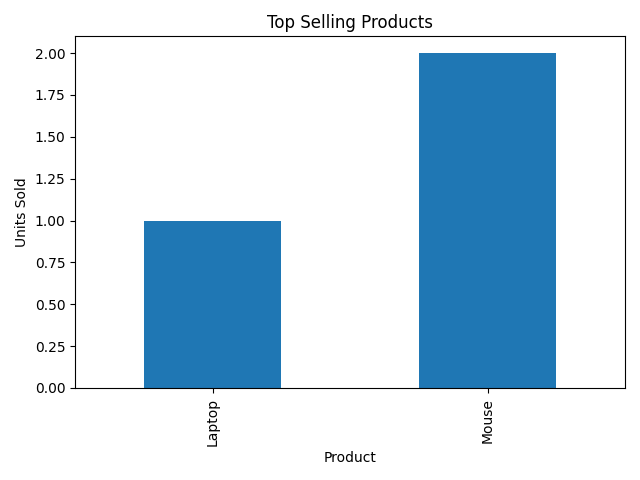
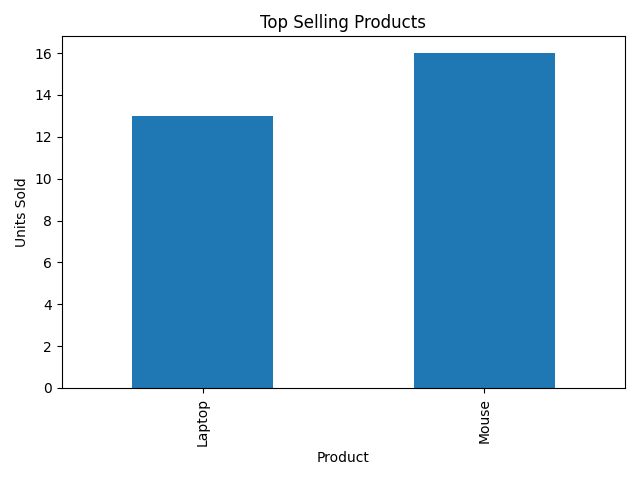
These are the final changes

diff --git a/shop_main.py b/shop_main.py
@@ -1,4 +1,6 @@
 print("PROGRAM STARTED")
+from product_class import Product, Order
+from cart_manager import ShoppingCart
 # Decorator for automation status messages
 def status(msg):
     def decorator(func):
@@ -7,38 +9,6 @@ def status(msg):
             return func(*args, **kwargs)
         return wrapper
     return decorator
-
-
-class Product:
-
-    def __init__(self, name, price, stock):
-        self.name = name
-        self.price = price
-        self.stock = stock
-
-    def reduce_stock(self, qty):
-        if qty > self.stock:
-            raise ValueError("Insufficient stock")
-        self.stock -= qty
-
-    def to_row(self):
-        return [self.name, self.price, self.stock]
-
-
-class Order:
-    def __init__(self, cart, tax_rate=0.18, discount=0):
-        self.cart = cart
-        self.tax_rate = tax_rate
-        self.discount = discount
-
-    def subtotal(self):
-        return sum(p.price * q for p, q in self.cart.items.items())
-
-    def tax(self):
-        return self.subtotal() * self.tax_rate
-
-    def total(self):
-        return self.subtotal() + self.tax() - self.discount
 
 
 @status("Saving order")
@@ -76,8 +46,6 @@ if __name__ == "__main__":
         "Keyboard": Product("Keyboard", 1500, 15)
     }
 
-    from cart_manager import ShoppingCart
-
     cart = ShoppingCart()
 
     print("\nE-COMMERCE ORDER SYSTEM")
@@ -87,14 +55,16 @@ if __name__ == "__main__":
 
     # User input (controlled)
     qty_laptop = int(input("\nEnter quantity for Laptop (default 1): ") or 1)
-    cart.add_item(products["Laptop"], qty_laptop)
+    cart.add(products["Laptop"], qty_laptop)
     products["Laptop"].reduce_stock(qty_laptop)
 
     qty_mouse = int(input("Enter quantity for Mouse (default 2): ") or 2)
-    cart.add_item(products["Mouse"], qty_mouse)
+    cart.add(products["Mouse"], qty_mouse)
     products["Mouse"].reduce_stock(qty_mouse)
 
-    cart.display_cart()
+    print("\nSHOPPING CART:")
+    for product, qty in cart.items.items():
+        print(f"{product.name} (Qty: {qty}) - {int(product.price * qty)}")
 
     # Discount coupon logic (fixed 18% discount)
     discount = 0
@@ -102,7 +72,7 @@ if __name__ == "__main__":
 
     user_coupon = input("\nEnter discount coupon code (or press Enter to skip): ").strip()
     if user_coupon == coupon_code:
-        discount = order_discount = (sum(p.price * q for p, q in cart.items.items())) * 0.18
+        discount = sum(p.price * q for p, q in cart.items.items()) * 0.18
         print("Coupon applied! 18% discount activated.")
     elif user_coupon:
         print("Invalid coupon code. No discount applied.")
@@ -115,3 +85,14 @@ if __name__ == "__main__":
     print("Total:", int(order.total()))
 
     order_id = save_order(cart)
+    print("\nMENU")
+    print("1. Run Sales Analytics")
+    print("2. Exit")
+
+    choice = input("Enter your choice: ").strip()
+
+    if choice == "1":
+        import analytics
+        analytics.run_analysis()
+    else:
+        print("Exiting program.")

diff --git a/analytics.py b/analytics.py
@@ -1,38 +1,55 @@
+import os
 import pandas as pd
 import numpy as np
 import matplotlib.pyplot as plt
 
-df = pd.read_csv("orders.csv")
+def run_analysis():
+    # Check if file exists and is non-empty
+    if not os.path.exists("orders.csv") or os.stat("orders.csv").st_size == 0:
+        print("orders.csv is missing or empty. No data to analyze.")
+        return
 
-# Sales summary
-item_sales = df.groupby("item")["quantity"].sum()
+    # Read CSV with error handling for inconsistent rows
+    try:
+        df = pd.read_csv("orders.csv", on_bad_lines='skip')  # skip malformed lines
+    except pd.errors.ParserError as e:
+        print(f"Error reading orders.csv: {e}")
+        return
 
-# Revenue calculations
-revenue = np.sum(df["line_total"])
-aov = revenue / df["order_id"].nunique()
+    required_cols = {"order_id", "item", "quantity", "line_total"}
+    if not required_cols.issubset(df.columns):
+        print("orders.csv has invalid format. Cannot perform analysis.")
+        return
 
-print("Total Revenue:", revenue)
-print("Average Order Value:", aov)
+    # Sales summary
+    item_sales = df.groupby("item")["quantity"].sum()
 
-# Save numeric analysis to CSV
-summary_df = pd.DataFrame({
-    "Total Revenue": [revenue],
-    "Average Order Value": [aov]
-})
-summary_df.to_csv("sales_summary.csv", index=False)
+    # Revenue calculations
+    revenue = np.sum(df["line_total"])
+    aov = revenue / df["order_id"].nunique()
 
-print("Total Revenue:", revenue)
-print("Average Order Value:", aov)
-print("Sales summary saved to sales_summary.csv")
+    print("\n--- SALES ANALYTICS ---")
+    print("Total Revenue:", int(revenue))
+    print("Average Order Value:", int(aov))
 
-# Plot and SAVE instead of show
-plt.figure()
-item_sales.plot(kind="bar")
-plt.title("Top Selling Products")
-plt.xlabel("Product")
-plt.ylabel("Units Sold")
-plt.tight_layout()
-plt.savefig("top_selling_products.png")
-plt.close()
+    # Save numeric analysis to CSV
+    summary_df = pd.DataFrame({
+        "Total Revenue": [revenue],
+        "Average Order Value": [aov]
+    })
+    summary_df.to_csv("sales_summary.csv", index=False)
+    print("Sales summary saved to sales_summary.csv")
 
-print("Graph saved as top_selling_products.png")
+    # Plot and save graph
+    plt.figure()
+    item_sales.plot(kind="bar")
+    plt.title("Top Selling Products")
+    plt.xlabel("Product")
+    plt.ylabel("Units Sold")
+    plt.tight_layout()
+    plt.savefig("top_selling_products.png")
+    plt.close()
+    print("Graph saved as top_selling_products.png")
+
+if __name__ == "__main__":
+    run_analysis()

diff --git a/product_class.py b/product_class.py
@@ -4,15 +4,23 @@ class Product:
         self.price = price
         self.stock = stock
 
-    def update_stock(self, qty):
-        if qty < 0:
-            raise ValueError("Invalid stock")
-        self.stock = qty
-
     def reduce_stock(self, qty):
         if qty > self.stock:
             raise ValueError("Insufficient stock")
         self.stock -= qty
 
-    def to_row(self):
-        return [self.name, self.price, self.stock]
+
+class Order:
+    def __init__(self, cart, tax_rate=0.18, discount=0):
+        self.cart = cart
+        self.tax_rate = tax_rate
+        self.discount = discount
+
+    def subtotal(self):
+        return sum(p.price * q for p, q in self.cart.items.items())
+
+    def tax(self):
+        return self.subtotal() * self.tax_rate
+
+    def total(self):
+        return self.subtotal() + self.tax() - self.discount

diff --git a/cart_manager.py b/cart_manager.py
@@ -2,12 +2,16 @@ from collections import defaultdict
 
 class ShoppingCart:
     def __init__(self):
-        self.items = defaultdict(int)   # Product -> Quantity
+        self.items = {}
 
     def add_item(self, product, qty):
-        if qty <= 0:
-            raise ValueError("Quantity must be positive")
-        self.items[product] += qty
+        if product in self.items:
+            self.items[product] += qty
+        else:
+            self.items[product] = qty
+
+    def add(self, product, qty):
+        self.add_item(product, qty)
 
     def remove_item(self, product):
         if product in self.items:
